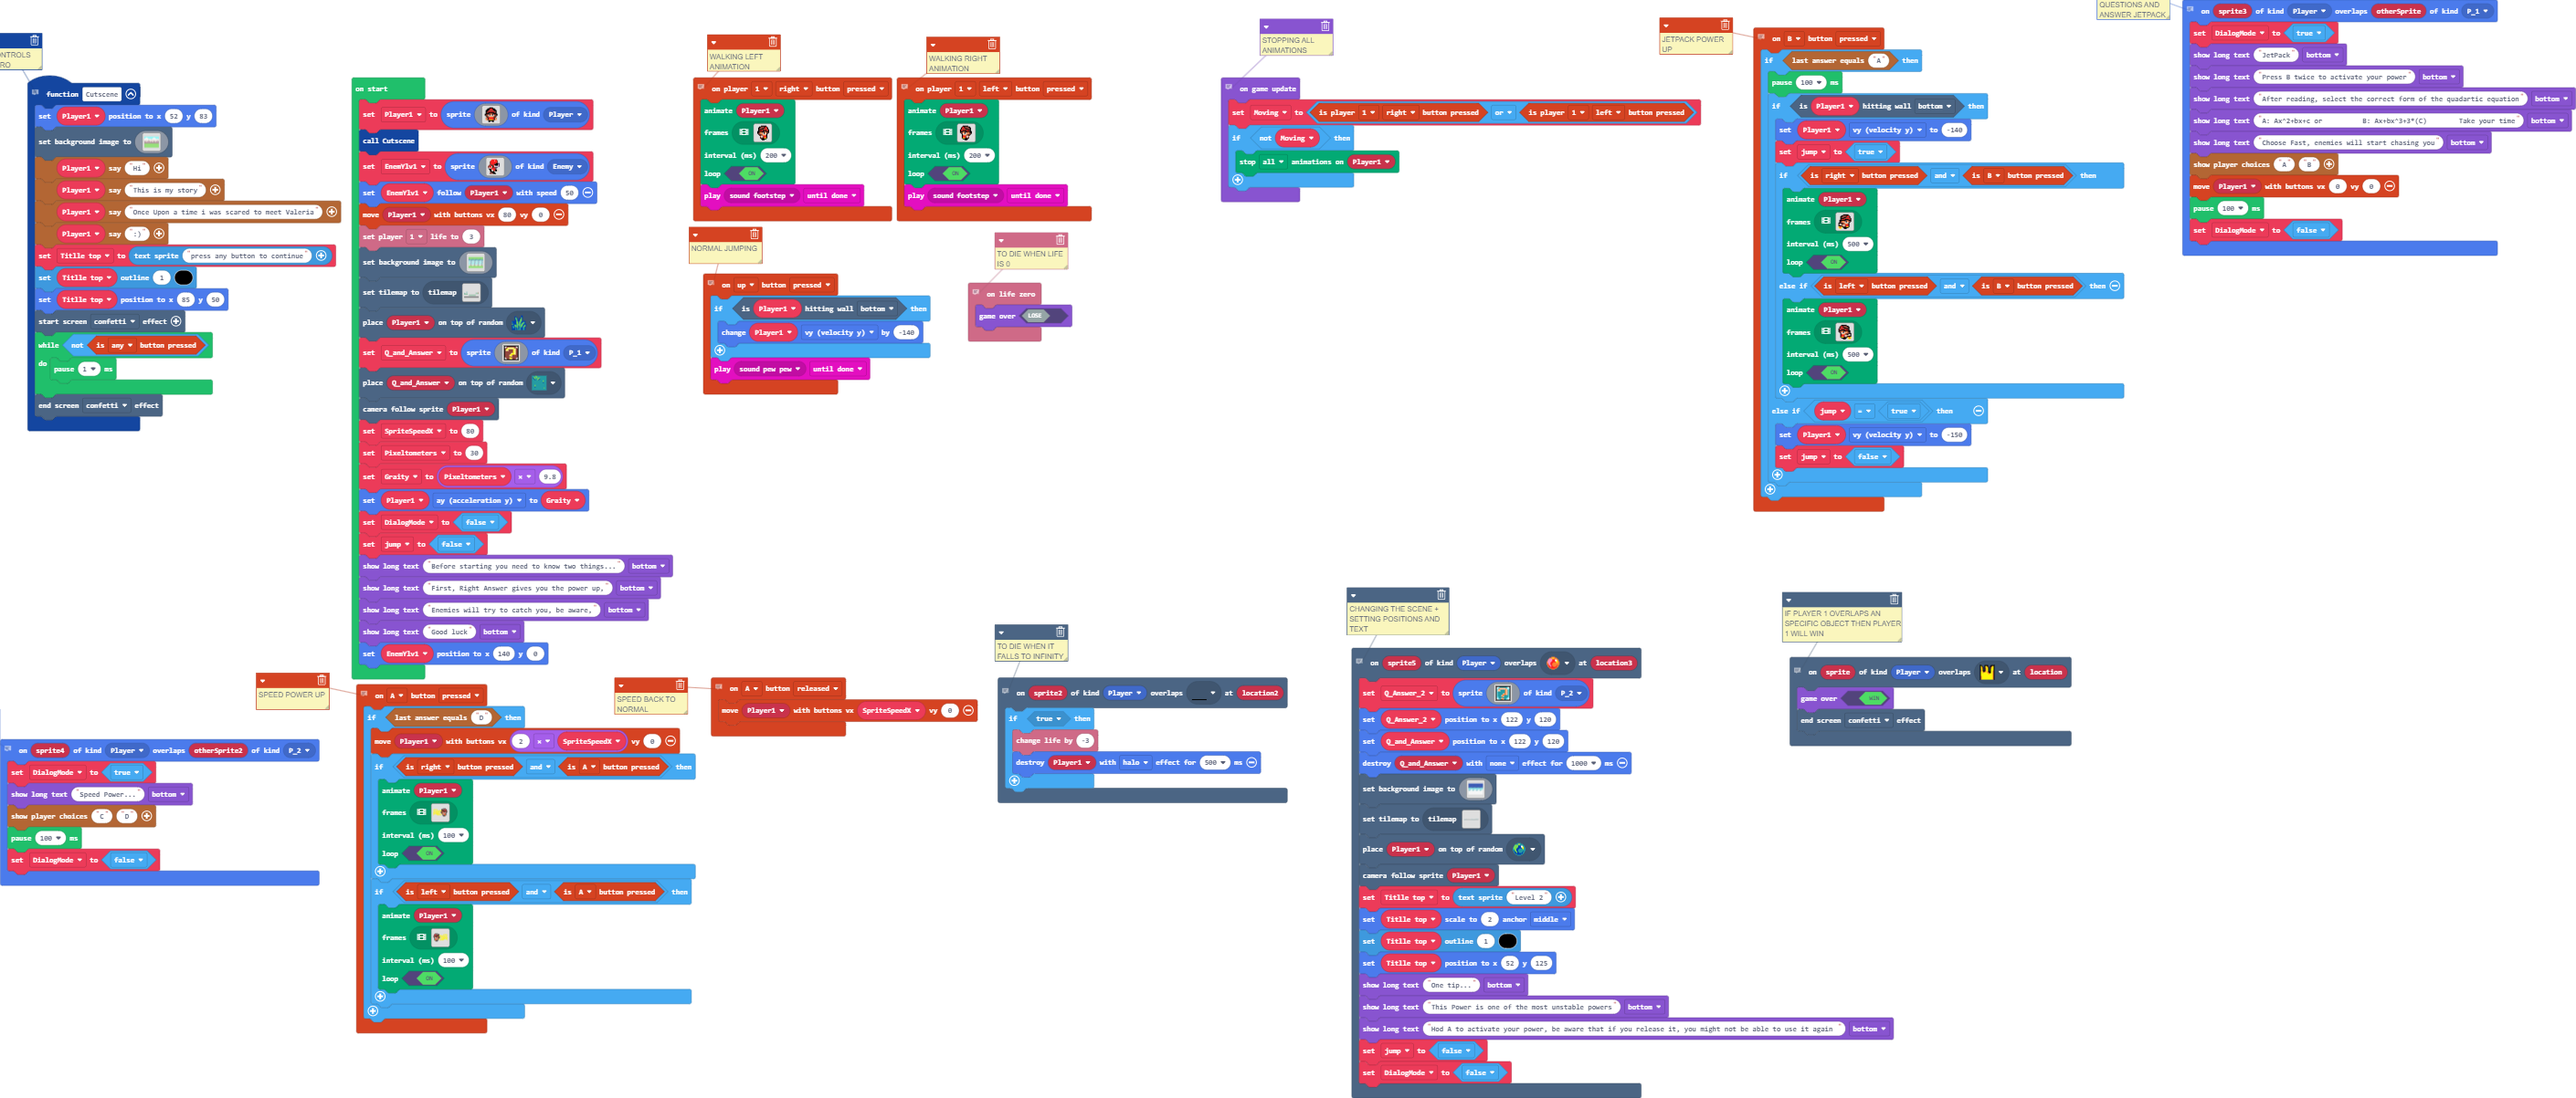
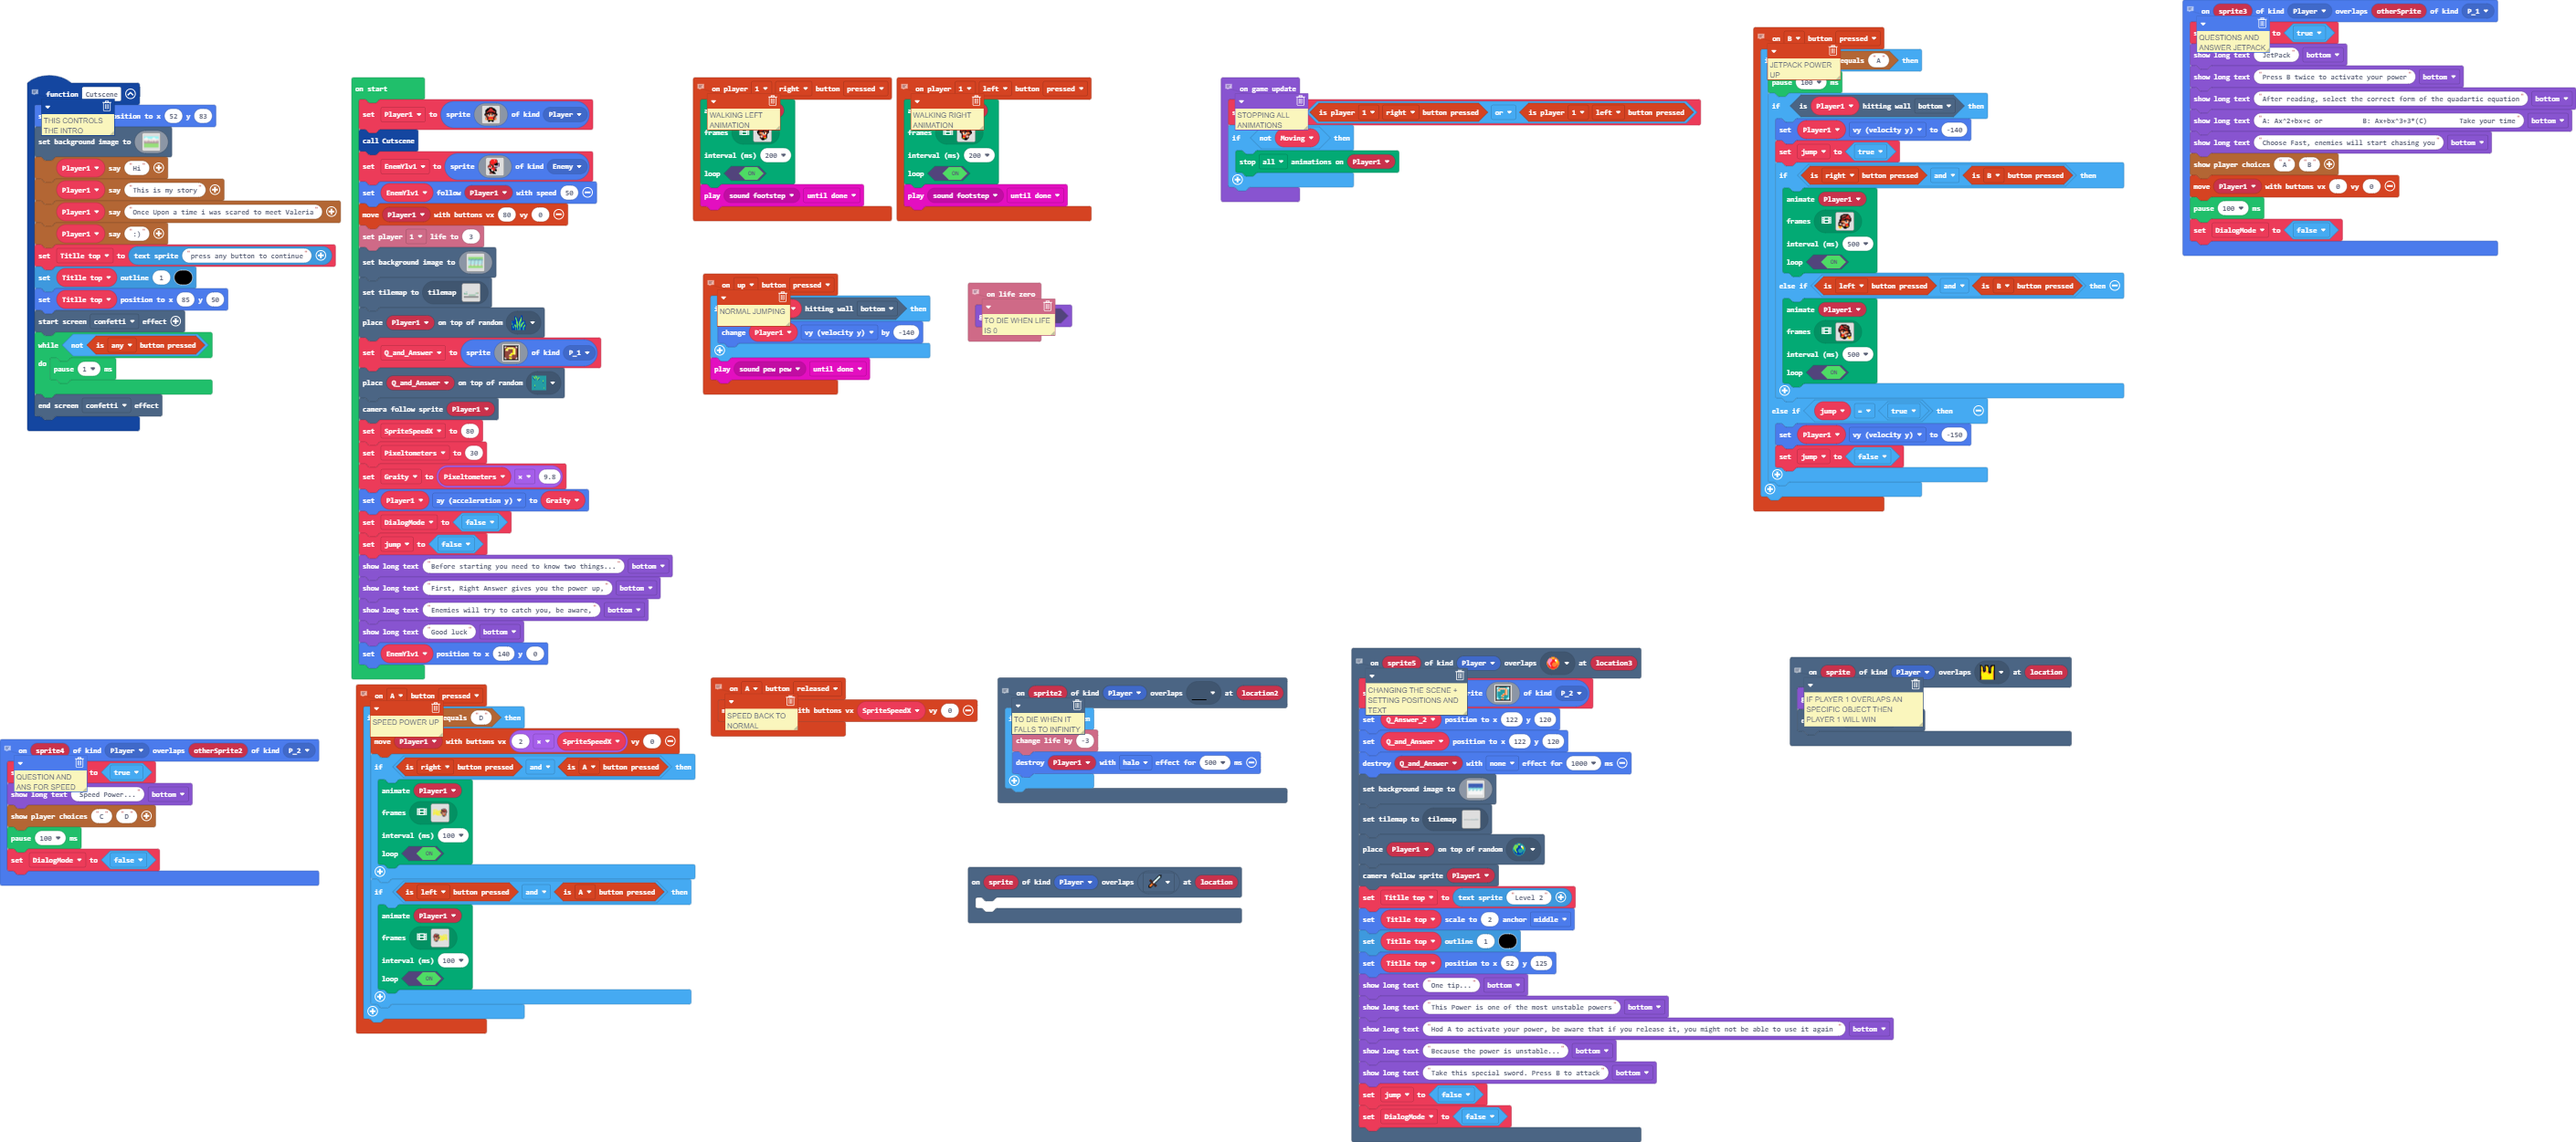
Update main.blocks, main.ts, tilemap.g.jres, tilemap.g.ts

diff --git a/tilemap.g.ts b/tilemap.g.ts
@@ -8,6 +8,10 @@ namespace myTiles {
     export const tile2 = image.ofBuffer(hex``);
     //% fixedInstance jres blockIdentity=images._tile
     export const tile1 = image.ofBuffer(hex``);
+    //% fixedInstance jres blockIdentity=images._tile
+    export const tile4 = image.ofBuffer(hex``);
+    //% fixedInstance jres blockIdentity=images._tile
+    export const tile5 = image.ofBuffer(hex``);
 
     helpers._registerFactory("tilemap", function(name: string) {
         switch(helpers.stringTrim(name)) {
@@ -258,25 +262,6 @@ namespace myTiles {
 . . . . . . . . . . . . . . . . 
 . . . . . . . . . . . . . . . . 
 `, [myTiles.transparency16], TileScale.Sixteen);
-            case "level10":
[1 lines of base64/hex data omitted]
-..............................................................................................................
-..............................................................................................................
-..............................................................................................................
-..............................................................................................................
-..............................................................................................................
-................................................................................................2.............
-................................................................................................2.............
-................................................................................................2.............
-...........................................................................................222222.........2222
-........................................................................................2..............222....
-................2222222222222........................2222222222..................22222222.222222222222........
-2..........................................222222222...................222222222..............................
-2222222222222222..............222222222222......................2222222222222222..............................
-..............................................................................................................
-..............................................................................................................
-..............................................................................................................
-`, [myTiles.transparency16,myTiles.tile3,sprites.dungeon.collectibleBlueCrystal,sprites.dungeon.collectibleInsignia,sprites.dungeon.floorLight0,myTiles.tile2], TileScale.Sixteen);
             case "level15":
             case "level15":return tiles.createTilemap(hex`1000100000000000000000000000000000000000000000000000000000000000000000000000000000000000000000000000000000000000000000000000000000000000000000000000000000000000000000000000000000000000000000000000000000000000000000000000000000000000000000000000000000000000000000000000000000000000000000000000000000000000000000000000000000000000000000000000000000000000000000000000000000000000000000000000000000000000000000000000000000000000000000000000000000000000000000000000000000000000000000000000000000000000000000000000000000000000`, img`
 . . . . . . . . . . . . . . . . 
@@ -296,6 +281,25 @@ namespace myTiles {
 . . . . . . . . . . . . . . . . 
 . . . . . . . . . . . . . . . . 
 `, [myTiles.transparency16], TileScale.Sixteen);
+            case "level10":
[1 lines of base64/hex data omitted]
+..............................................................................................................
+..............................................................................................................
+..............................................................................................................
+..............................................................................................................
+..............................................................................................................
+....2...........................................................................................2.............
+....2...........................................................................................2.............
+....2...........................................................................................2.............
+....2......................................................................................222222.........2222
+........................................................................................2..............222....
+................2222222222222........................2222222222..................22222222.222222222222........
+2..........................................222222222...................222222222..............................
+2222222222222222..............222222222222......................2222222222222222..............................
+..............................................................................................................
+..............................................................................................................
+..............................................................................................................
+`, [myTiles.transparency16,myTiles.tile3,sprites.dungeon.collectibleBlueCrystal,sprites.dungeon.collectibleInsignia,sprites.dungeon.floorLight0,myTiles.tile2,myTiles.tile5], TileScale.Sixteen);
         }
         return null;
     })
@@ -306,6 +310,10 @@ namespace myTiles {
             case "tile3":return tile3;
             case "tile2":return tile2;
             case "tile1":return tile1;
+            case "myTile":
+            case "tile4":return tile4;
+            case "myTile0":
+            case "tile5":return tile5;
         }
         return null;
     })

diff --git a/main.ts b/main.ts
@@ -2,6 +2,9 @@ namespace SpriteKind {
     export const P_1 = SpriteKind.create()
     export const P_2 = SpriteKind.create()
 }
+scene.onOverlapTile(SpriteKind.Player, assets.tile`myTile0`, function (sprite, location) {
+	
+})
 // NORMAL JUMPING
 controller.up.onEvent(ControllerButtonEvent.Pressed, function () {
     if (Player1.isHittingTile(CollisionDirection.Bottom)) {
@@ -329,6 +332,8 @@ scene.onOverlapTile(SpriteKind.Player, sprites.dungeon.collectibleRedCrystal, fu
     game.showLongText("One tip...", DialogLayout.Bottom)
     game.showLongText("This Power is one of the most unstable powers", DialogLayout.Bottom)
     game.showLongText("Hod A to activate your power, be aware that if you release it, you might not be able to use it again ", DialogLayout.Bottom)
+    game.showLongText("Because the power is unstable...", DialogLayout.Bottom)
+    game.showLongText("Take this special sword. Press B to attack", DialogLayout.Bottom)
     jump = false
     DialogMode = false
 })
